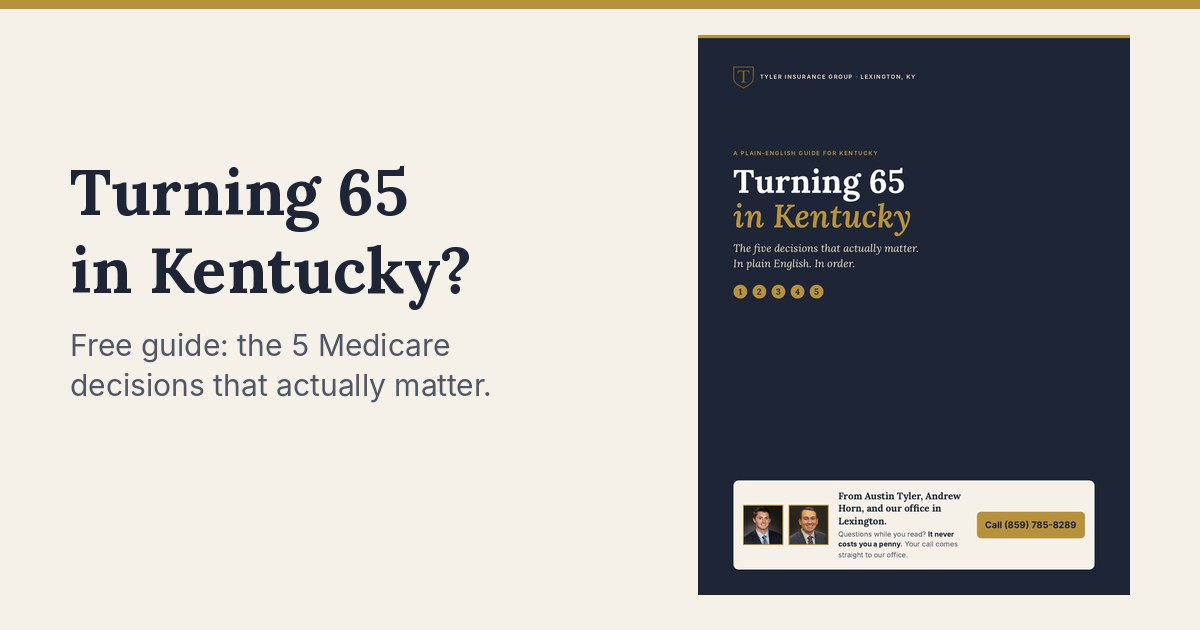
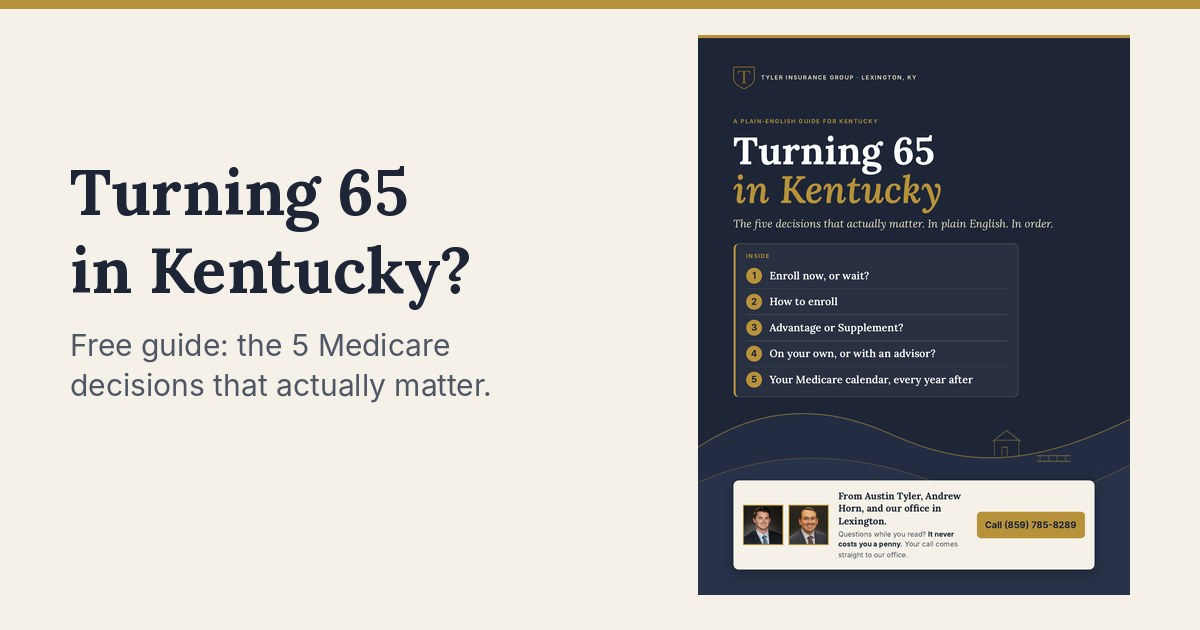
T65 lander: new guide cover, book shrunk to 320px on desktop
Claude-Session: https://claude.ai/code/session_01PcAcyYCPQkevzWPGdaFdAA

diff --git a/t65guide/index.html b/t65guide/index.html
@@ -100,7 +100,7 @@ label{display:block;font-weight:600;font-size:16px;margin:8px 0 4px;}
 /* T65: 3D guide mockup */
 @media(min-width:880px){ .lpgrid{align-items:start;} .lpgrid .desk{position:sticky;top:24px;padding-top:28px;} }
 .mock{position:relative;max-width:260px;margin:14px auto 6px;perspective:1400px;}
-@media(min-width:880px){ .mock{max-width:400px;margin:0 auto;} }
+@media(min-width:880px){ .mock{max-width:320px;margin:0 auto;} }
 .mock:before{content:"";position:absolute;inset:-8% -14% -10% -10%;background:radial-gradient(closest-side,#fff0e8 0%,#fbe3d6 55%,rgba(255,255,255,0) 100%);z-index:0;}
 .book{position:relative;z-index:1;transform:rotateY(-16deg) rotateX(4deg) rotateZ(-1deg);transform-style:preserve-3d;}
 .book img{position:relative;z-index:3;width:100%;height:auto;display:block;border-radius:3px 7px 7px 3px;
